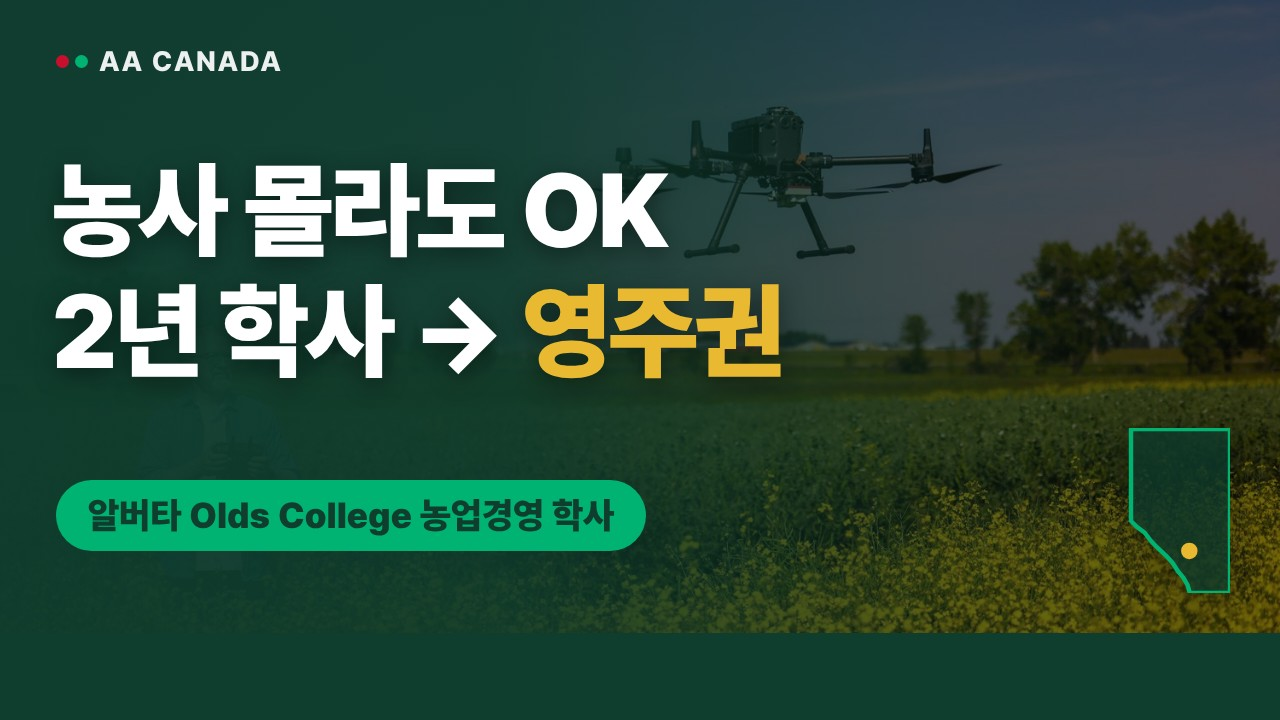
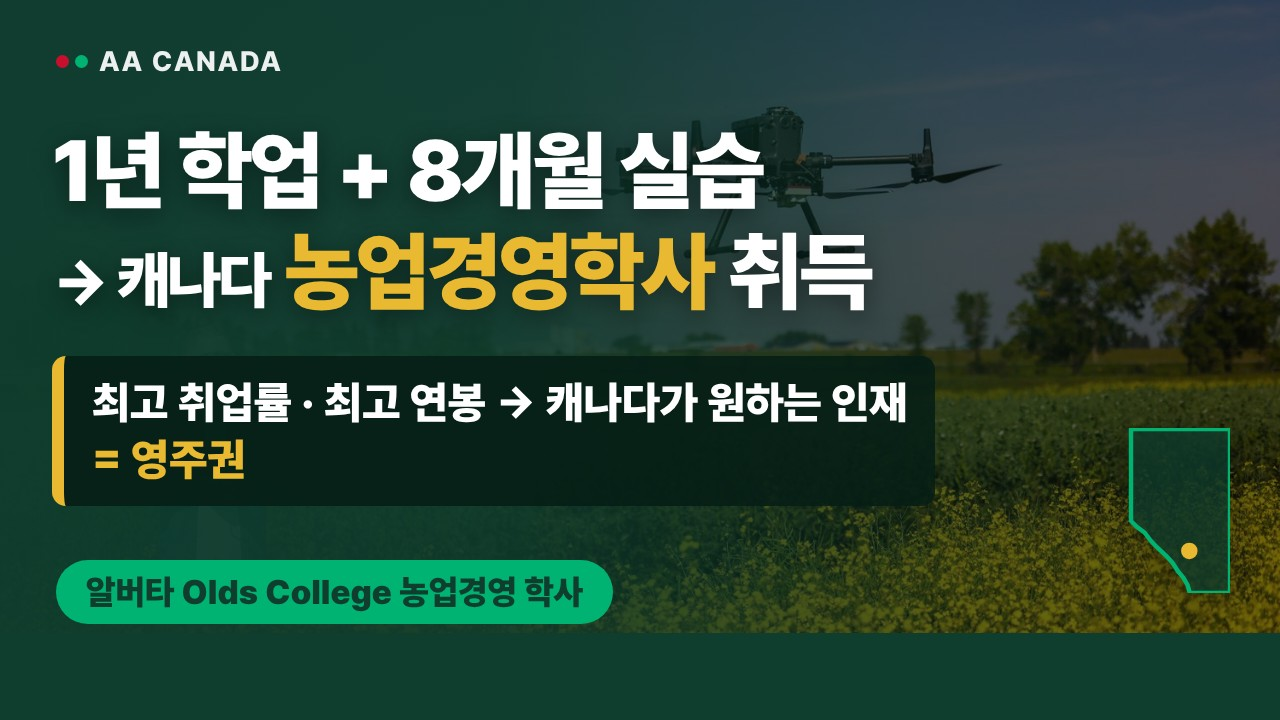
Olds long-form thumbnail: new copy (1년 학업 + 8개월 실습), safe variant v3
Claude-Session: https://claude.ai/code/session_0149KhqPuYtjnWeaFHCwoA7M

Changed region(s): [[0.0312, 0.1833, 0.75, 0.8861]]

diff --git a/videos/olds-agribusiness-longform/thumbnail/thumbnail.html b/videos/olds-agribusiness-longform/thumbnail/thumbnail.html
@@ -13,9 +13,12 @@ html,body{width:1280px;height:720px;overflow:hidden;background:#0f3d2e;font-fami
 .grad{position:absolute;inset:0;background:linear-gradient(90deg,rgba(15,61,46,.97) 0%,rgba(15,61,46,.88) 40%,rgba(15,61,46,.2) 75%,rgba(15,61,46,0) 100%)}
 .brand{position:absolute;left:56px;top:44px;color:rgba(255,255,255,.92);font-weight:800;font-size:28px;letter-spacing:.06em;display:flex;align-items:center;gap:12px}
 .brand i{display:block;width:13px;height:13px;border-radius:50%;background:#c8102e;box-shadow:19px 0 0 #00b373;margin-right:18px}
-.t{position:absolute;left:52px;top:150px;color:#fff;font-weight:900;font-size:104px;line-height:1.16;letter-spacing:-.035em;text-shadow:0 6px 24px rgba(0,0,0,.45);white-space:nowrap}
+.t{position:absolute;left:52px;top:120px;color:#fff;font-weight:900;font-size:86px;line-height:1.18;letter-spacing:-.035em;text-shadow:0 6px 24px rgba(0,0,0,.45);white-space:nowrap}
 .t .g{color:#e8b931}
-.pill{position:absolute;left:56px;top:480px;background:#00b373;color:#0f3d2e;font-weight:900;font-size:36px;padding:14px 32px;border-radius:99px}
+.t small{font-size:62px}
+.band{position:absolute;left:52px;top:356px;max-width:1000px;background:rgba(6,30,22,.88);border-left:12px solid #e8b931;border-radius:14px;padding:18px 28px;color:#fff;font-weight:900;font-size:44px;line-height:1.3;white-space:nowrap}
+.band .g{color:#e8b931}
+.pill{position:absolute;left:56px;top:560px;background:#00b373;color:#0f3d2e;font-weight:900;font-size:34px;padding:12px 30px;border-radius:99px}
 .map{position:absolute;right:50px;bottom:40px;width:110px;height:165px;filter:drop-shadow(0 6px 16px rgba(0,0,0,.5))}
 </style>
 </head>
@@ -23,9 +26,11 @@ html,body{width:1280px;height:720px;overflow:hidden;background:#0f3d2e;font-fami
 <div class="ph"><img id="bg" src="../assets/photos/sf-15-crop-research.jpg" alt="" /></div>
 <div class="grad"></div>
 <div class="brand"><i></i>AA CANADA</div>
-<div class="t">농사 몰라도 OK<br />2년 학사 → <span class="g">영주권</span></div>
+<div class="t" id="t">1년 학업 + 8개월 실습<br /><small>→ 캐나다</small> <span class="g">농업경영학사</span> 취득</div>
+<div class="band" id="band">최고 취업률 · 최고 연봉 → 캐나다가 원하는 인재<br /><span class="g">= 영주권</span></div>
 <div class="pill">알버타 Olds College 농업경영 학사</div>
 <svg class="map" viewBox="0 0 400 600"><path d="M40 4 L400 4 L400 600 L254 600 L246 572 L231 545 L210 520 L191 490 L165 462 L137 436 L112 410 L90 381 L62 360 L40 338 Z" fill="rgba(15,61,46,.75)" stroke="#00b373" stroke-width="16" stroke-linejoin="round"/><path d="M252 447 m0 -6 a44 44 0 1 0 0.1 0" fill="none"/><circle cx="252" cy="447" r="30" fill="#e8b931"/></svg>
-<script>const b=new URLSearchParams(location.search).get('bg');if(b)document.getElementById('bg').src='../assets/photos/'+b+'.jpg';</script>
+<script>const b=new URLSearchParams(location.search).get('bg');if(b)document.getElementById('bg').src='../assets/photos/'+b+'.jpg';
+if(new URLSearchParams(location.search).get('copy')==='safe')document.getElementById('band').innerHTML='취업 강한 농업 분야 → 캐나다가 원하는 인재<br /><span class="g">알버타 영주권 루트</span>';</script>
 </body>
 </html>
